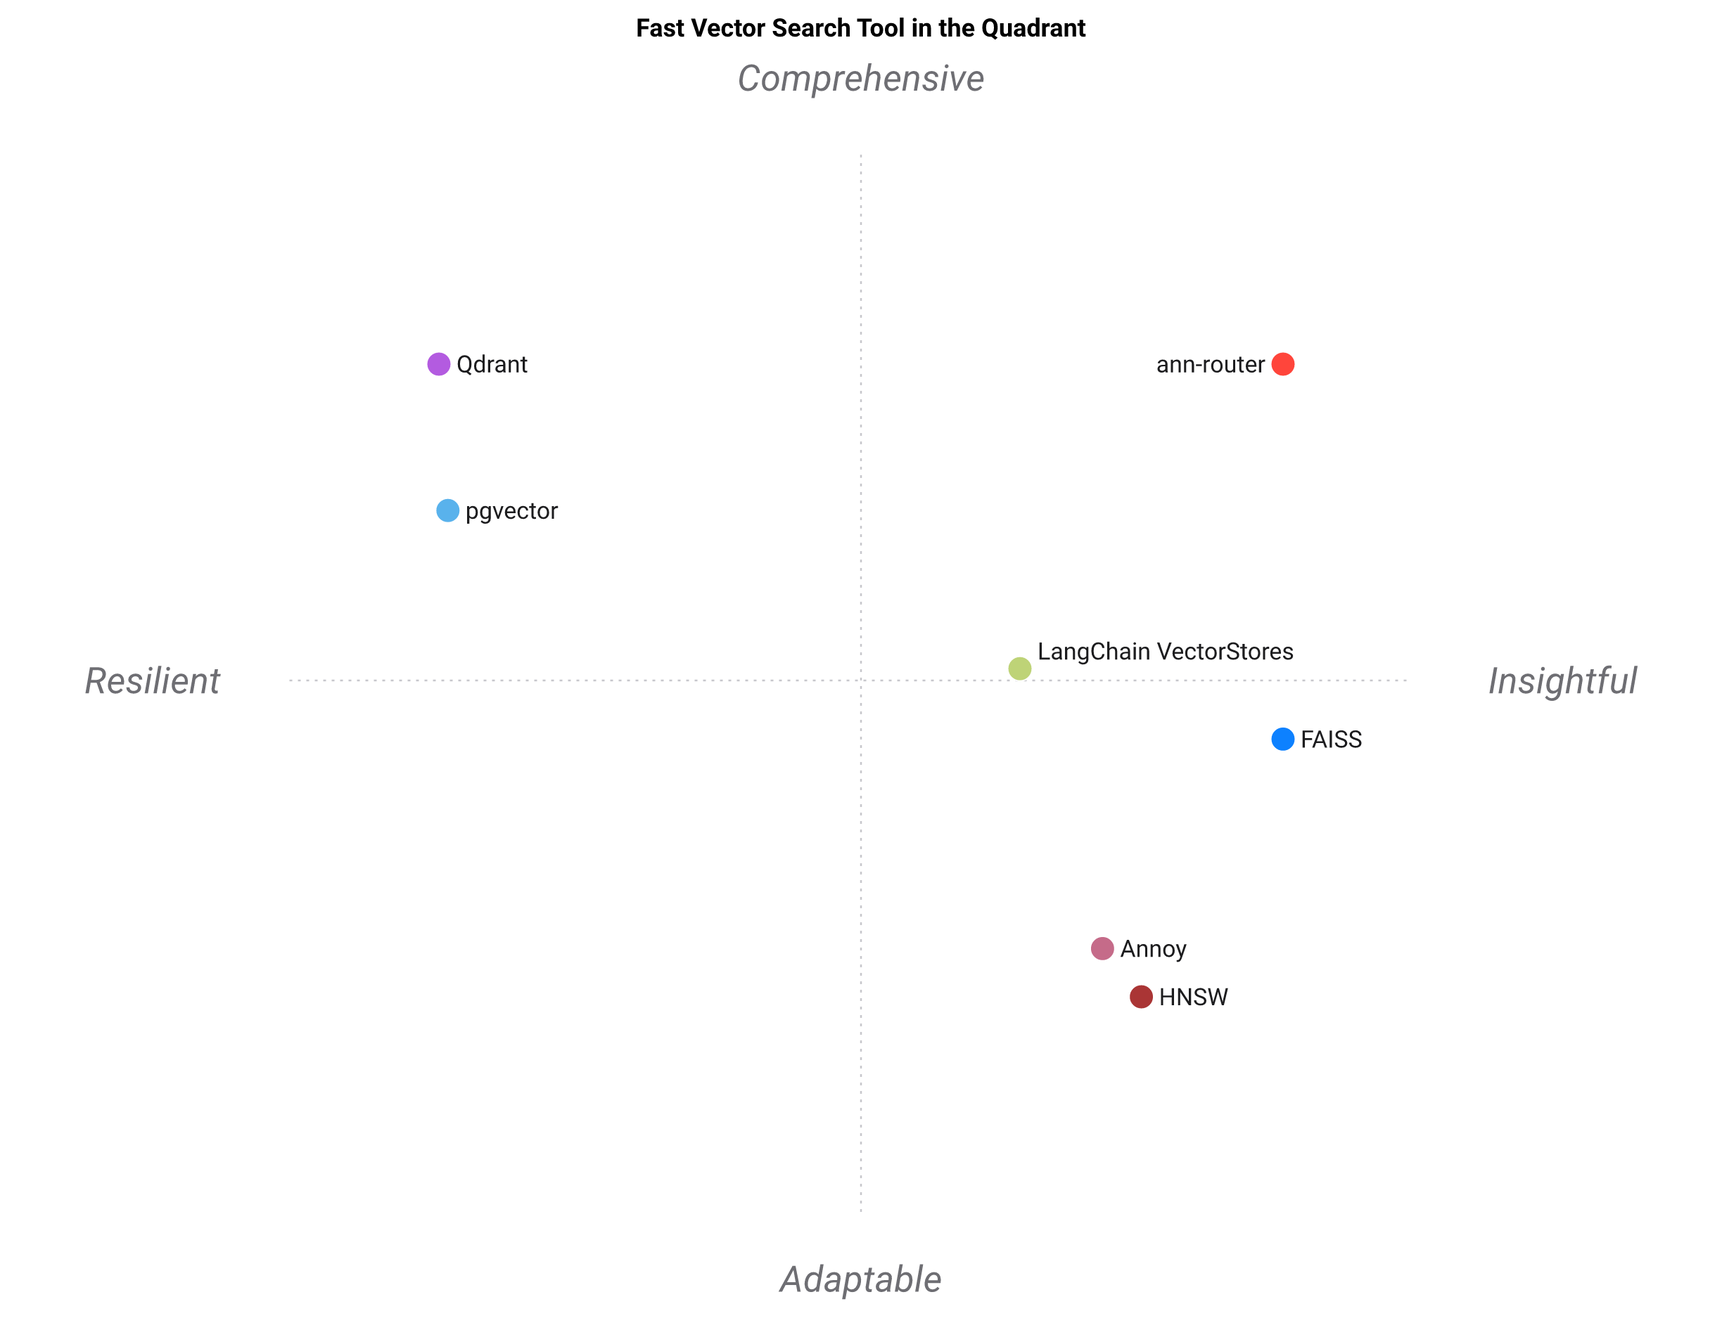
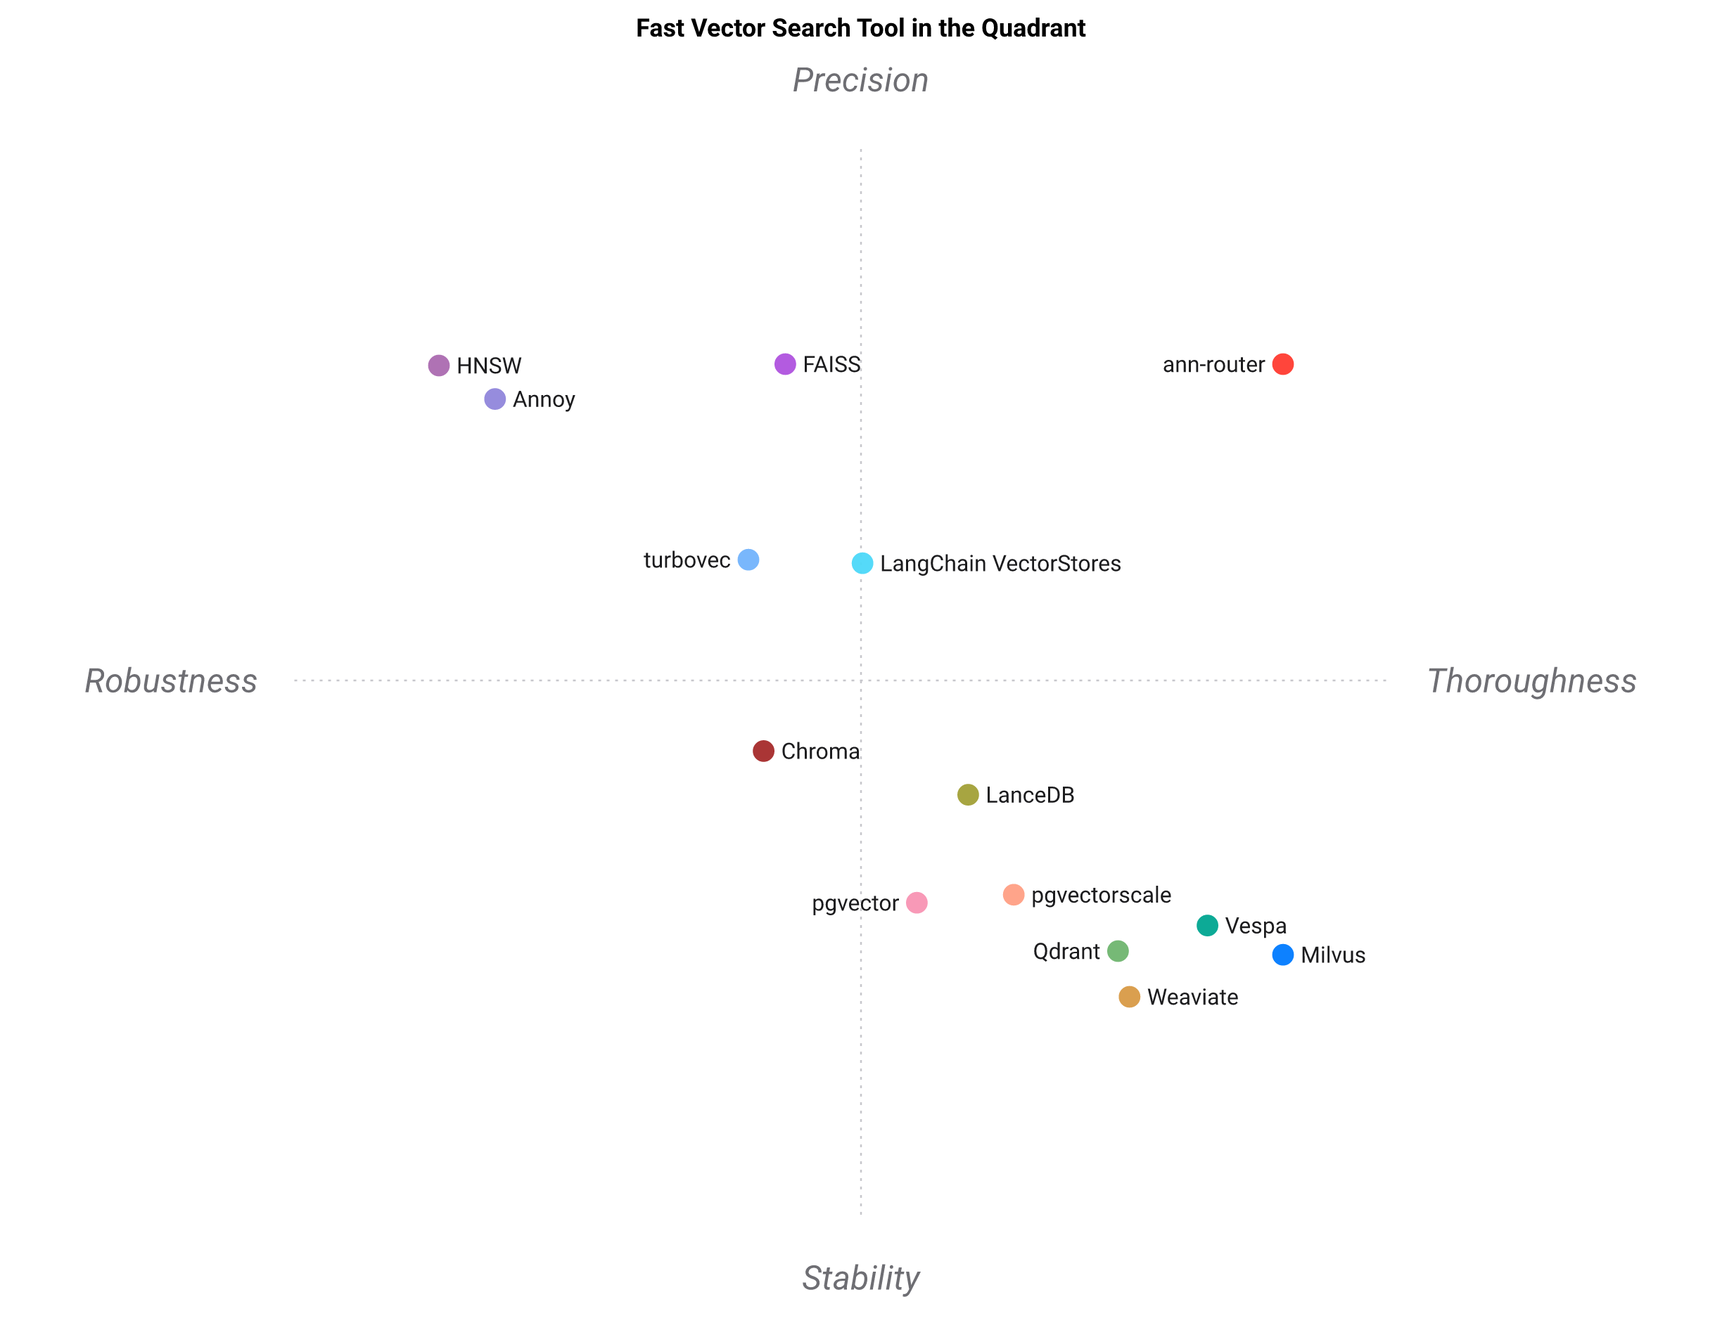
Paysage : 7 → 14 outils, relevé daté du champ vectoriel 2026
Le tableau datait du 2026-08-12 dans un domaine où six mois périment un
classement. Entrent pgvectorscale, Milvus, Weaviate, Vespa, LanceDB, Chroma,
plus turbovec, qui avait une fiche et pas de ligne alors que le routeur
l'utilise comme moteur. Les onze critères sont inchangés : seules les lignes
s'ajoutent, donc les notes existantes restent comparables.

Ce que la recherche rapporte et que la thèse intègre :

- pgvectorscale mesure 471 requêtes/s à 99 % de rappel sur 50 M de vecteurs
  contre 41 pour Qdrant. Le fait intéressant n'est pas le classement mais sa
  cause : l'index choisi DANS un moteur (DiskANN, HNSW, IVF, GPU) déplace le
  rappel avec la latence plus que le choix du moteur. Cela élargit le travail
  du routeur au lieu de le réduire.
- Weaviate fusionne BM25 avec le dense dans une requête. Une part des plaintes
  « la recherche vectorielle est mauvaise » sont des échecs lexicaux sur des
  noms propres ou des références rares : le rappel sur un corpus n'est pas le
  rappel sur une requête, et un besoin hybride devient une entrée de routage.
- Milvus et Vespa bornent le haut de l'échelle, LanceDB et Chroma le bas.

Nouvelle section « Sources et date de relevé » dans les deux langues, avec les
trois références. Un tableau de notes sans date de vérification est un tableau
dont on ne peut pas dire s'il est faux.

diff --git a/PAYSAGE.md b/PAYSAGE.md
@@ -24,8 +24,15 @@ entre des LLM.
 | FAISS | ⭐ | ⭐ | ⭐ | ⭐⭐ | ⭐ | ⭐⭐ | ⭐⭐ | ⭐⭐⭐⭐⭐ | ⭐⭐⭐⭐⭐ | ⭐⭐ | ⭐ |
 | HNSW | ⭐ | ⭐ | ⭐ | ⭐ | ⭐ | ⭐ | ⭐ | ⭐ | ⭐ | ⭐ | ⭐ |
 | Annoy | ⭐ | ⭐ | ⭐ | ⭐ | ⭐ | ⭐⭐ | ⭐ | ⭐ | ⭐⭐ | ⭐ | ⭐ |
+| turbovec | ⭐ | ⭐ | ⭐ | ⭐⭐⭐⭐⭐ | ⭐ | ⭐⭐ | ⭐ | ⭐ | ⭐⭐⭐⭐⭐ | ⭐⭐⭐ | ⭐ |
 | Qdrant | ⭐ | ⭐ | ⭐ | ⭐⭐⭐ | ⭐⭐⭐⭐⭐ | ⭐⭐⭐⭐⭐ | ⭐ | ⭐⭐⭐⭐ | ⭐⭐⭐⭐⭐ | ⭐⭐⭐⭐⭐ | ⭐⭐⭐⭐⭐ |
 | pgvector | ⭐ | ⭐ | ⭐ | ⭐⭐⭐ | ⭐⭐⭐⭐⭐ | ⭐⭐⭐⭐⭐ | ⭐ | ⭐ | ⭐⭐⭐ | ⭐⭐⭐ | ⭐⭐⭐⭐⭐ |
+| pgvectorscale | ⭐ | ⭐ | ⭐⭐ | ⭐⭐⭐⭐⭐ | ⭐⭐⭐⭐⭐ | ⭐⭐⭐⭐⭐ | ⭐ | ⭐ | ⭐⭐⭐⭐ | ⭐⭐⭐ | ⭐⭐⭐⭐ |
+| Milvus | ⭐ | ⭐ | ⭐⭐⭐⭐ | ⭐⭐⭐⭐⭐ | ⭐⭐⭐⭐⭐ | ⭐⭐⭐⭐⭐ | ⭐ | ⭐⭐⭐⭐⭐ | ⭐⭐⭐⭐ | ⭐⭐⭐⭐⭐ | ⭐⭐⭐⭐⭐ |
+| Weaviate | ⭐ | ⭐ | ⭐⭐ | ⭐⭐⭐⭐⭐ | ⭐⭐⭐⭐⭐ | ⭐⭐⭐⭐⭐ | ⭐ | ⭐⭐⭐ | ⭐⭐⭐ | ⭐⭐⭐⭐⭐ | ⭐⭐⭐⭐⭐ |
+| Vespa | ⭐ | ⭐ | ⭐⭐⭐⭐ | ⭐⭐⭐⭐⭐ | ⭐⭐⭐⭐⭐ | ⭐⭐⭐⭐⭐ | ⭐ | ⭐⭐⭐ | ⭐⭐⭐⭐ | ⭐⭐⭐⭐⭐ | ⭐⭐⭐⭐ |
+| LanceDB | ⭐ | ⭐ | ⭐⭐ | ⭐⭐⭐⭐ | ⭐⭐⭐⭐ | ⭐⭐⭐⭐⭐ | ⭐ | ⭐⭐ | ⭐⭐⭐⭐ | ⭐⭐⭐ | ⭐⭐⭐ |
+| Chroma | ⭐ | ⭐ | ⭐ | ⭐⭐⭐⭐ | ⭐⭐⭐⭐ | ⭐⭐⭐⭐ | ⭐ | ⭐ | ⭐ | ⭐⭐ | ⭐⭐⭐ |
 | LangChain VectorStores | ⭐⭐ | ⭐ | ⭐⭐⭐⭐ | ⭐⭐ | ⭐⭐⭐ | ⭐⭐⭐ | ⭐ | ⭐⭐ | ⭐ | ⭐⭐⭐ | ⭐⭐⭐ |
 <!-- TABLE:END -->
 
@@ -39,7 +46,13 @@ Représentation 2D du tableau ci-dessus.
 
 ![Carte de positionnement](https://raw.githubusercontent.com/warith-harchaoui/ann-router/main/assets/paysage.png)
 
-La carte est un résumé en 2D des 11 critères : à lire comme une forme, pas comme un classement. « ann-router » se situe dans le coin en haut à droite. Les axes se lisent **Horizontal: Stabilité ↔ Efficacité** et **Vertical: Adaptabilité ↔ Robustesse**.
+La carte est un résumé en 2D des 11 critères : à lire comme une forme, pas comme un classement. « ann-router » se situe dans le coin en haut à droite. Les axes se lisent **Horizontal : Efficacité ↔ Robustesse** et **Vertical : Adaptabilité ↔ Précision**.
+
+L'axe horizontal révèle une tension entre la capacité à traiter rapidement un grand nombre de requêtes et la capacité à maintenir un fonctionnement fiable dans des conditions difficiles. Les solutions qui privilégient l'efficacité, comme HNSW, Annoy et turbovec, se positionnent à gauche, tandis que celles qui mettent l'accent sur la robustesse, notamment Milvus, Vespa et pgvectorscale, se regroupent à droite. Ann-router, notre option de référence, se trouve bien placée, bénéficiant d'un bon équilibre entre ces deux aspects, mais elle n'est pas la plus performante sur l'un ou l'autre.
+
+L'axe vertical met en opposition la facilité d'adaptation à de nouveaux besoins et la précision des résultats. Les solutions qui se veulent flexibles et capables de s'intégrer à des environnements variés, comme Weaviate, Milvus et Qdrant, se situent en bas du graphique. À l'inverse, FAISS, HNSW et Annoy, ainsi que LangChain VectorStores, se distinguent par leur capacité à fournir des résultats précis et fiables, se positionnant en haut. Ann-router, encore une fois, se trouve dans une position intermédiaire, ce qui suggère qu'elle peut être moins adaptable que certaines alternatives, mais qu'elle offre une bonne précision.
+
+On observe une concentration importante de solutions dans le quadrant inférieur droit, regroupant Qdrant, pgvector, pgvectorscale, Milvus, Weaviate et Vespa. Elles partagent un profil axé sur la robustesse et l'adaptabilité, ce qui les rend potentiellement intéressantes pour des environnements où la stabilité et la flexibilité sont primordiales. À l'opposé, les options FAISS, HNSW, Annoy et turbovec se regroupent dans le coin supérieur gauche, privilégiant l'efficacité et la précision, ce qui les rend plus adaptées aux applications où la vitesse et la qualité des résultats sont essentielles. Ann-router et LangChain VectorStores, quant à elles, se trouvent dans le coin supérieur droit, combinant robustesse et précision, ce qui les rend potentiellement polyvalentes, bien qu'elles ne soient pas les leaders sur chaque axe.
 <!-- FIGURE:END -->
 
 ## Fiche par outil
@@ -75,6 +88,59 @@ bits (~16×), fort sur Apple Silicon. Le rappel dépend des données (la
 quantification est avec perte), donc ann-router le choisit pour la branche
 *mises à jour fréquentes*, pas pour le rappel maximal en statique.
 
+### pgvectorscale
+La raison pour laquelle « prends juste Postgres » a cessé d'être une
+concession. pgvectorscale ajoute à pgvector un index DiskANN avec compression
+SBQ : les mesures publiées le placent à **471 requêtes par seconde à 99 % de
+rappel sur 50 millions de vecteurs, là où Qdrant en tient 41** — un facteur
+onze du côté du rappel, obtenu depuis le moteur que la plupart des équipes font
+déjà tourner. Cela confirme la prémisse d'ann-router plutôt que de la menacer :
+l'*index* choisi dans un moteur déplace le rappel et la latence autant que le
+choix du moteur lui-même : c'est exactement l'axe sur lequel un routeur doit
+raisonner. Router vers pgvector, c'est désormais demander quel index, pas
+seulement quelle base.
+
+### Milvus
+La réponse distribuée : nœuds de requête, de données et d'index séparés,
+construction d'index sur GPU (CAGRA), seul moteur ouvert à tenir un vrai
+discours au-delà de cent millions de vecteurs. Le prix est une surface
+d'exploitation — etcd, stockage objet, plusieurs types de nœuds — qui écrase
+celle d'un index en mémoire. ann-router y route quand l'échelle dépasse
+réellement une machine et le dit dans sa justification : personne ne devrait
+hériter de ce cluster par accident.
+
+### Weaviate
+Le spécialiste de la recherche hybride : BM25 avec recherche dense fusionnés
+dans une seule requête, filtres sur métadonnées appliqués dans la même passe.
+Cela compte parce qu'une part mesurable des plaintes « la recherche vectorielle
+est mauvaise » sont en réalité des échecs lexicaux sur des noms, des
+références, des mots rares, que les plongements brouillent par construction.
+C'est l'argument le plus fort de ce tableau pour dire que le *rappel sur un
+corpus* n'est pas la même quantité que le *rappel sur une requête* : ann-router
+traite un besoin hybride déclaré comme une entrée de routage, pas comme un
+agrément.
+
+### Vespa
+Le plus capable avec le moins de confort : une pile de classement complète,
+expressions tensorielles, classement multi-phases, vrai streaming sur données
+structurées, pensée pour un moteur de recherche plutôt que pour un index
+embarqué. On le choisit quand le travail est de classer, non de chercher le
+plus proche voisin ; ann-router ne prétend pas l'abstraire, car adopter Vespa
+est une architecture, pas un moteur de plus.
+
+### LanceDB
+Le pari colonnaire embarqué : format Lance, stockage versionné sans copie,
+empreinte en processus qui en fait l'extrémité « sans serveur » de la recherche
+sur disque. Au plus près de la niche d'Annoy mais sans la taxe de la lecture
+seule ; solide quand un corpus doit vivre dans un stockage objet plutôt qu'en
+mémoire vive.
+
+### Chroma
+Le défaut sans friction : pip install, métadonnées comme un dictionnaire, pas
+de serveur. L'échelle et la compression ne sont pas le sujet ; prétendre le
+contraire est la façon dont une équipe finit par migrer sous charge —
+ann-router y lit le régime du prototype, puis dit quand le corpus l'a dépassé.
+
 ### LangChain VectorStores
 Une large couche d'adaptateurs sur de nombreux stores, la plus proche en
 esprit, mais elle unifie des *API*, pas des *décisions* : elle vous laissera
@@ -88,3 +154,21 @@ systèmes changent de forme : ils grandissent, se mettent à avoir besoin de
 suppressions, ajoutent une exigence de filtre, migrent vers une machine à GPU.
 ann-router garde l'*interface* fixe et laisse le *moteur* suivre le problème
 mesuré, avec une justification lisible et surchargeable.
+
+Le paysage de 2026 renforce cette thèse plutôt qu'il ne l'affaiblit. Les écarts
+mesurés les plus larges ne séparent plus les moteurs mais les *index au sein
+d'un même moteur* — DiskANN contre HNSW contre IVF contre une construction sur
+GPU déplace le rappel avec la latence plus loin que changer de base de données
+— et les moteurs se sont tous mis à en proposer plusieurs. Une décision qui
+était « quel magasin » devient « quel magasin, quel index, quelle
+quantification » : davantage de routage à faire, pas moins.
+
+## Sources et date de relevé
+
+Les notes ci-dessus ont été vérifiées le **2026-10-23**. Ce domaine bouge assez
+vite pour qu'un tableau périmé soit un tableau faux : la date fait partie de
+l'affirmation.
+
+- [Open-source vector database benchmarks](https://aimultiple.com/open-source-vector-databases) — AIMultiple
+- [Best vector databases in 2026: pricing, scale limits and architecture trade-offs](https://www.marktechpost.com/2026/05/10/best-vector-databases-in-2026-pricing-scale-limits-and-architecture-tradeoffs-across-nine-leading-systems/) — MarkTechPost
+- [Best vector databases](https://encore.dev/articles/best-vector-databases) — Encore

diff --git a/LANDSCAPE.md b/LANDSCAPE.md
@@ -22,8 +22,15 @@ but its own sibling [best-engine-ai-helper](https://github.com/warith-harchaoui/
 | FAISS | ⭐ | ⭐ | ⭐ | ⭐⭐ | ⭐ | ⭐⭐ | ⭐⭐ | ⭐⭐⭐⭐⭐ | ⭐⭐⭐⭐⭐ | ⭐⭐ | ⭐ |
 | HNSW | ⭐ | ⭐ | ⭐ | ⭐ | ⭐ | ⭐ | ⭐ | ⭐ | ⭐ | ⭐ | ⭐ |
 | Annoy | ⭐ | ⭐ | ⭐ | ⭐ | ⭐ | ⭐⭐ | ⭐ | ⭐ | ⭐⭐ | ⭐ | ⭐ |
+| turbovec | ⭐ | ⭐ | ⭐ | ⭐⭐⭐⭐⭐ | ⭐ | ⭐⭐ | ⭐ | ⭐ | ⭐⭐⭐⭐⭐ | ⭐⭐⭐ | ⭐ |
 | Qdrant | ⭐ | ⭐ | ⭐ | ⭐⭐⭐ | ⭐⭐⭐⭐⭐ | ⭐⭐⭐⭐⭐ | ⭐ | ⭐⭐⭐⭐ | ⭐⭐⭐⭐⭐ | ⭐⭐⭐⭐⭐ | ⭐⭐⭐⭐⭐ |
 | pgvector | ⭐ | ⭐ | ⭐ | ⭐⭐⭐ | ⭐⭐⭐⭐⭐ | ⭐⭐⭐⭐⭐ | ⭐ | ⭐ | ⭐⭐⭐ | ⭐⭐⭐ | ⭐⭐⭐⭐⭐ |
+| pgvectorscale | ⭐ | ⭐ | ⭐⭐ | ⭐⭐⭐⭐⭐ | ⭐⭐⭐⭐⭐ | ⭐⭐⭐⭐⭐ | ⭐ | ⭐ | ⭐⭐⭐⭐ | ⭐⭐⭐ | ⭐⭐⭐⭐ |
+| Milvus | ⭐ | ⭐ | ⭐⭐⭐⭐ | ⭐⭐⭐⭐⭐ | ⭐⭐⭐⭐⭐ | ⭐⭐⭐⭐⭐ | ⭐ | ⭐⭐⭐⭐⭐ | ⭐⭐⭐⭐ | ⭐⭐⭐⭐⭐ | ⭐⭐⭐⭐⭐ |
+| Weaviate | ⭐ | ⭐ | ⭐⭐ | ⭐⭐⭐⭐⭐ | ⭐⭐⭐⭐⭐ | ⭐⭐⭐⭐⭐ | ⭐ | ⭐⭐⭐ | ⭐⭐⭐ | ⭐⭐⭐⭐⭐ | ⭐⭐⭐⭐⭐ |
+| Vespa | ⭐ | ⭐ | ⭐⭐⭐⭐ | ⭐⭐⭐⭐⭐ | ⭐⭐⭐⭐⭐ | ⭐⭐⭐⭐⭐ | ⭐ | ⭐⭐⭐ | ⭐⭐⭐⭐ | ⭐⭐⭐⭐⭐ | ⭐⭐⭐⭐ |
+| LanceDB | ⭐ | ⭐ | ⭐⭐ | ⭐⭐⭐⭐ | ⭐⭐⭐⭐ | ⭐⭐⭐⭐⭐ | ⭐ | ⭐⭐ | ⭐⭐⭐⭐ | ⭐⭐⭐ | ⭐⭐⭐ |
+| Chroma | ⭐ | ⭐ | ⭐ | ⭐⭐⭐⭐ | ⭐⭐⭐⭐ | ⭐⭐⭐⭐ | ⭐ | ⭐ | ⭐ | ⭐⭐ | ⭐⭐⭐ |
 | LangChain VectorStores | ⭐⭐ | ⭐ | ⭐⭐⭐⭐ | ⭐⭐ | ⭐⭐⭐ | ⭐⭐⭐ | ⭐ | ⭐⭐ | ⭐ | ⭐⭐⭐ | ⭐⭐⭐ |
 <!-- TABLE:END -->
 
@@ -37,7 +44,13 @@ there is nothing to decide. That is the point ann-router addresses.)
 
 ![Positioning map](https://raw.githubusercontent.com/warith-harchaoui/ann-router/main/assets/landscape.png)
 
-The map is a 2-D summary of the eleven criteria, so read it as a shape, not a scoreboard. `ann-router` is at the top-right corner. The axes read **Horizontal: Resilient ↔ Insightful** and **Vertical: Adaptable ↔ Comprehensive**.
+The map is a 2-D summary of the eleven criteria, so read it as a shape, not a scoreboard. `ann-router` is at the top-right corner. The axes read **Horizontal: Robustness ↔ Thoroughness** and **Vertical: Stability ↔ Precision**.
+
+The map reveals a clear distinction between approaches prioritizing careful design and those emphasizing resilience. Options clustered on the left side of the map demonstrate a focus on robustness, with criteria like distributed scaling and handling churn playing a significant role in their positioning. Conversely, those on the right emphasize thoroughness, driven by factors such as measured selection and the inclusion of metadata filters. The reference option, ann-router, occupies the top-right corner, suggesting a balance of both thoroughness and precision, though it’s worth noting that several other options, including LangChain VectorStores, share this space, indicating a similar emphasis on detailed design and accurate results.
+
+Several options find themselves grouped in the bottom-right corner, including Milvus, Weaviate, Vespa, Qdrant, LanceDB, and pgvectorscale. These systems prioritize stability and a comprehensive approach, but perhaps at the expense of the precision seen in the top-right quadrant. In contrast, FAISS, HNSW, Annoy, and turbovec all occupy the top-left corner, demonstrating a strong focus on robustness and precision, though they may not offer the same level of stability as the bottom-right group. Chroma sits alone in the bottom-left, highlighting a unique combination of robustness and stability that sets it apart from the other options. 
+
+Ultimately, the map illustrates that different vector databases and tools make different trade-offs. While ann-router leads in overall performance, the other options demonstrate distinct strengths, and the best choice will depend on the specific priorities of the application. The clustering of several options in the right-bottom corner suggests a common design philosophy focused on comprehensive features and stability, while the concentration of options in the top-left corner indicates a shared emphasis on robustness and precision.
 <!-- FIGURE:END -->
 
 ## Per-tool write-up
@@ -72,6 +85,52 @@ compression, strong on Apple Silicon. Recall is data-dependent (quantisation is
 lossy), so ann-router picks it for the *frequent-updates* branch, not for
 maximal-recall static workloads.
 
+### pgvectorscale
+The reason "just use Postgres" stopped being a concession. pgvectorscale adds a
+DiskANN index and SBQ compression to pgvector, and the published benchmarks put
+it at **471 QPS at 99% recall on 50M vectors where Qdrant managed 41** — an
+11x gap at the recall end, from the engine most teams already run. It confirms
+the premise rather than threatening it: the *index* inside an engine moves
+recall and latency as much as the choice of engine, which is precisely the axis
+ann-router has to reason about. Routing to pgvector now means asking which
+index, not only which database.
+
+### Milvus
+The distributed answer: separated query/data/index nodes, GPU index builds
+(CAGRA), and the one open engine with a real story past 100M vectors. The cost
+is an operational surface — etcd, object storage, several node types — that
+dwarfs an in-process index. ann-router routes here when scale genuinely exceeds
+one machine, and says so in the rationale, because nobody should inherit that
+cluster by accident.
+
+### Weaviate
+The hybrid-search specialist: BM25 and dense retrieval fused in a single query,
+with metadata filters applied in the same pass. That matters because a
+measurable share of "the vector search is bad" complaints are really lexical
+misses on names, codes and rare tokens, which embeddings systematically blur.
+It is the strongest argument in this table that *recall against a corpus* is
+not the same quantity as *recall against a query*, and ann-router treats a
+stated hybrid requirement as a routing input, not a nice-to-have.
+
+### Vespa
+The most capable and the least convenient: a full ranking stack with tensor
+expressions, multi-phase ranking and genuine streaming over structured data,
+designed for search engines rather than for an embedded index. Picked when the
+job is ranking rather than nearest-neighbour lookup; ann-router does not
+pretend to abstract it, since adopting Vespa is an architecture, not a backend.
+
+### LanceDB
+The embedded columnar bet: Lance format, zero-copy versioned storage, and an
+in-process footprint that makes it the serverless-friendly end of on-disk
+search. Closest to Annoy's niche but without the read-only tax, and strong
+where a corpus has to live in object storage rather than in RAM.
+
+### Chroma
+The frictionless default: pip install, dict-like metadata, no server. Scale and
+compression are not the point, and pretending otherwise is how teams end up
+migrating under load — ann-router reads it as the prototype regime and says
+when the corpus has outgrown it.
+
 ### LangChain VectorStores
 A broad adapter layer over many stores, closest in spirit, but it unifies
 *APIs*, not *decisions*: it will happily let you pick the wrong store. ann-router
@@ -83,3 +142,20 @@ Marrying one engine optimises for one shape of problem. Real systems change
 shape: they grow, they start needing deletes, they add a filter requirement, they
 move to a box with a GPU. ann-router keeps the *interface* fixed and lets the
 *engine* follow the measured problem, with a rationale you can read and override.
+
+The 2026 field strengthens that case rather than weakening it. The widest
+measured gaps are no longer between engines but between *indexes inside one
+engine* — DiskANN against HNSW against IVF against a GPU build swings recall
+and latency further than swapping the database does — and the engines have
+converged on offering several. A decision that used to be "which store" is now
+"which store, which index, which quantisation", which is more routing to do,
+not less.
+
+## Sources and as-of date
+
+The ratings above were last checked on **2026-10-23**. This field moves fast
+enough that a stale table is a wrong table, so the date is part of the claim.
+
+- [Open-source vector database benchmarks](https://aimultiple.com/open-source-vector-databases) — AIMultiple
+- [Best vector databases in 2026: pricing, scale limits and architecture trade-offs](https://www.marktechpost.com/2026/05/10/best-vector-databases-in-2026-pricing-scale-limits-and-architecture-tradeoffs-across-nine-leading-systems/) — MarkTechPost
+- [Best vector databases](https://encore.dev/articles/best-vector-databases) — Encore
